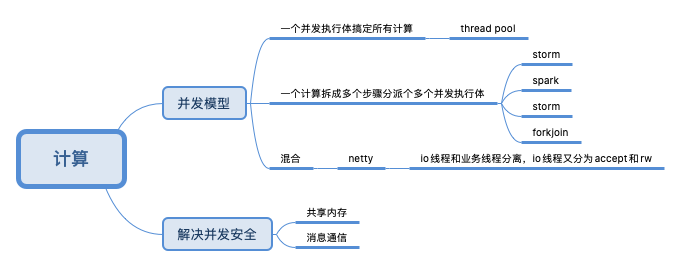
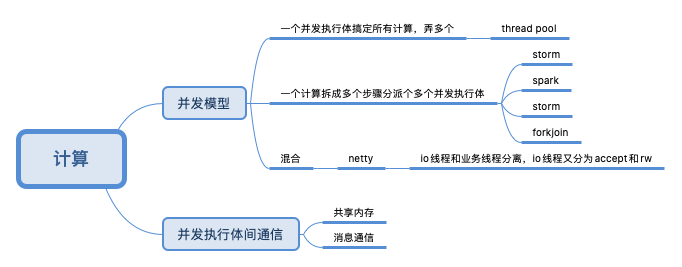
[fix]add

Changed region(s): [[0.2463, 0.779, 0.585, 0.9588], [0.6158, 0.0899, 0.8314, 0.1498]]

diff --git a/_posts/Technology/Storage/2019-11-20-mvcc.md b/_posts/Technology/Storage/2019-11-20-mvcc.md
@@ -1,0 +1,185 @@
+---
+
+layout: post
+title: MVCC
+category: 技术
+tags: Storage
+keywords: TIDB
+
+---
+
+## 前言
+
+
+截止到2019.11.19，对mvcc 的理解仍然有很多黑洞，可能需要阅读源码才能解开。我们需要知道的是，基于一个全局自增id，事务在start时申请id 作为自己的标识，修改（删除也可视为修改）一条记录时 不改变原有记录并新增 一条带上事务id的记录 即可成功的将修改操作转换为新增操作，提交时
+
+
+## mvcc 干啥的，同类的解决方案有哪些
+
+多个并发执行体操作一个数据 会引起数据冲突，需要进行并发控制，并发控制有两个思路
+
+1. 悲观机制，You can avoid them, by employing a pessimistic locking mechanism (e.g. Read/Write locks, Two-Phase Locking)
+2. 乐观机制，You can allow conflicts to occur, but you need to detect them using an optimistic locking mechanism (e.g. logical clock, MVCC)
+
+
+具体到数据库层面，追求绝对的并发安全会导致性能的下降。为了提高性能，可以降低并发控制”强度“，从读写的角度提出了一个隔离性的概念来描述并发安全的程度。 隔离性的要求不同，悲观 和乐观机制 可以调整内部细节 来达到不同的隔离性。
+
+1. 悲观锁，以mysql innodb 为例[彻底理解事务的4个隔离级别](https://www.cnblogs.com/jycboy/p/transaction.html)
+
+    ||读|写|
+    |---|---|---|
+    |Read uncommitted|事务在读数据的时候并未对数据加锁|事务在修改数据的时候只对数据增加`行级共享锁`|
+    |Read committed|事务对当前被读取的数据加 `行级共享锁`（当读到时才加锁），<br>一旦读完该行，立即释放该行级共享锁|事务在更新某数据的瞬间（就是发生更新的瞬间），<br>必须先对其加 `行级排他锁`，直到事务结束才释放|
+    |Repeatable read|事务在读取某数据的瞬间（就是开始读取的瞬间），必须先对其加 `行级共享锁`，直到事务结束才释放|事务在更新某数据的瞬间（就是发生更新的瞬间），必须先对其加 `行级排他锁`，直到事务结束才释放|
+    |Serializable|事务在读取数据时，必须先对其加 `表级共享锁` ，直到事务结束才释放|事务在更新数据时，必须先对其加 `表级排他锁` ，直到事务结束才释放|
+
+    为了实现隔离性的效果，不仅用了锁， 加锁的时间、粒度和性质（共享or排他）也很讲究。
+
+2. 乐观锁，MVCC 只是一个思想，并不是某个特定的实现。做到了读与读不冲突，读与写不冲突，但**写写还需要锁去控制冲突**。
+
+多事务 对同一个数据记录 同时读写的准确性，`<read,read>``<write,write>` 一般都没疑问，主要说的是`<read,write>`，具体的说就是`<read,udpate>``<read,delete>`，再具体的说，是write 一方的update/delete 操作read 一方能不能看到、何时看到。
+
+snapshot isolation [事务隔离级别SI到RC以及优化](http://www.zenlife.tk/si-rc.md)RR和SI是一个差不多强度的隔离级别，RR有幻读问题，SI没有；而SI有写偏问题，RR没有。它们都解决了读未提交，不可重复读，然后都有对方处理不了的异常，所以算是差不多强度。只不过当年定义隔离级别的ANSI标准的时候，大家思维还局限在基于锁的实现，所以标准定义不是很完美，定义了RU，RC，RR，Serializability，后来基于MVCC的实现流行之后，才有了SI。SI的实现，需要拿一次startTS和一次commitTS
+
+## 各家实现mvcc的方式不一致
+
+各家方案的共同点
+
+1. 每一个record 有一个 唯一标识primary key 
+2. 同一个record 存在多个版本，一个事务一个版本，多个版本的数据 可能是一个数据形态（postgresql），也可能是不同形态（mysql，老版本以undo log 形式存在）
+3. 对于不同隔离级别，mvcc 处理机制不同。
+4. mvcc 的工作基于 额外的数据结构 及 作用于之上的策略。
+
+[PostgreSQL、Oracle/MySQL和SQL Server的MVCC实现原理方式](https://www.jdon.com/repository/database-mvcc.html)
+
+## postgresql
+
+While Oracle and MySQL use the undo log to capture uncommitted changes so that rows can be reconstructed to their previously committed version, PostgreSQL stores all row versions in the table data structure.
+
+PostgreSQL 中的 MVCC 实现原理可简单概括如下（真的可以不用锁实现三种隔离性）
+
+1. 数据文件中存放同一逻辑行的多个行版本（称为 Tuple ）
+2. 每个行版本的头部记录创建以及删除该行版本的事务的 ID （分别称为 xmin 和 xmax ）
+3. 每个事务的状态（运行中，中止或提交）记录在 pg_clog 文件中，所以能根据事务id 查询事务是否已提交
+4. 根据上面的数据并运用一定的规则每个事务只会看到一个特定的行版本
+
+    1. 未提交读和提交读实际上都被实现为提交读
+    2. Read committed, 只读取已经提交事务的结果 [SQL优化（六） MVCC PostgreSQL实现事务和多版本并发控制的精华](http://www.jasongj.com/sql/mvcc/)
+    3. Repeatable read, 只读取xmin小于当前事务ID且已提交的事务的Tuple。postgresql RR隔离级别不允许幻读
+
+
+[How does MVCC (Multi-Version Concurrency Control) work](https://vladmihalcea.com/how-does-mvcc-multi-version-concurrency-control-work/)
+
+Transaction Id is a 32-bit integer, when connection start a new transaction, and we can see their transaction ids by calling the txid_current() PostgreSQL function.
+
+一个update a record 为例，在Read committed 时
+
+![](/public/upload/storage/postgresql_mvcc.png)
+
+1. Both Alice and Bob start a new transaction, and we can see their transaction ids by calling the txid_current() PostgreSQL function
+2. When Bob updates a post record, we can see two operations happening: a DELETE and an INSERT.
+The previous row version is marked as deleted by setting the t_max  column value to Bob’s transaction id(用xmax>0来标识该`<row，version>`元组被删除), and a new row version is created which has the t_min column value set to Bob’s transaction id
+3. Under default Read Committed isolation level, until Bob manages to commit his transaction, Alice can still see the previous record version. 
+4. After Bob has committed, Alice can now see the new row version that was updated by Bob
+
+|ACID|实现技术|
+|---|---|
+|原子性（Atomicity）|MVCC|
+|一致性（Consistency）|约束（主键、外键等）|
+|隔离性|MVCC|
+|持久性|WAL|
+
+对于插入操作，PostgreSQL会将当前事务ID存于xmin中。对于删除操作，其事务ID会存于xmax中。对于更新操作，PostgreSQL会将当前事务ID存于旧数据的xmax中，并存于新数据的xin中。换句话说，事务对增、删和改所操作的数据上都留有其事务ID，可以很方便的提交该批操作或者完全撤销操作，从而实现了事务的原子性。
+
+MVCC 的实现让我想起了 基于区块链的比特币，区块链的比特币从来没有一个余额存在，余额是根据历史的交易记录累计算出来的。PostgreSQL 的数据会有大量的Tuple 存在（当然会有一个gc 机制去清理Tuple），不同的事务 按规则读取自己可见的Tuple。
+
+## mysql
+
+[MVCC机制](https://my.oschina.net/u/3942910/blog/1928981)
+
+InnoDB为每行记录都实现了三个隐藏字段：6字节的事务ID（DB_TRX_ID ）；7字节的回滚指针（DB_ROLL_PTR）；隐藏的ID。
+
+[InnoDB MVCC RR隔离级别下的数据可见性总结](https://www.cnblogs.com/itZhy/p/8831947.html)
+
+![](/public/upload/storage/innodb_mvcc.png)
+
+innodb 中注意的一个点：事务ID并非在事务begin时就分配，而是在事务首次执行非快照读操作（SELECT ... FOR UPDATE/IN SHARE MODE、UPDATE、DELETE）时分配。
+
+## tidb
+
+tidb mvcc 机制一个难点是 其mvcc 既实现了多版本（解决多个事务同时读写一个key的问题），也实现了分布式事务（一个是事务中涉及多个key，每个key在不同的region/机器上，所以要保证多个key同时修改成功或失败）。
+
+
+
+|ACID|实现技术|
+|---|---|
+|原子性|两阶段提交时，通过 `primary key` 保证原子性。 `primary key` commit 成功与否决定事务成功与否|
+|一致性||
+|隔离性|通过MVCC，保证隔离级别为  Repeatable Read（也有一说是SI）|
+|持久性|tikv 保证持久化，多副本|
+
+
+### 分布式事务
+
+[TiKV 事务模型概览，Google Spanner 开源实现](https://pingcap.com/blog-cn/tidb-transaction-model/)其实本质上来说，在一个分布式系统中实现跨节点事务，**只有两阶段提交一种办法**（3PC 本质上也是 2PC 的一个优化），一般都会有一个中央节点作为事务管理器。TiDB 的事务模型参考了 Percolator 论文，Percolator仅仅依靠**客户端侧**的协议和一个全局的授时服务器TSO就实现了跨机器的多行事务。Percolator 的模型通过对于锁的优化，去掉了单点的事务管理器的概念，将整个事务模型中的单点局限于授时服务器上。
+
+### 对分布式事务的猜测
+
+![](/public/upload/storage/precolator.png)
+
+假设分布式kv 不支持ts，想原子修改k1和k2，直接修改
+
+1. set k1 成功
+2. set k2 失败
+3. 此时应该回滚，set k1 到原来的值，但这个时候 kv client 挂了呢，k1,k2就永远不一致了
+
+**一次提交只能对原始数据修改，中途宕机没办法callbak**，所以一个直观的想法就是， 每次update k1 ，k1 原来的值还在，另外创建一个新k1 row，于是key 便有了版本的概念。为防止版本号冲突，版本使用全局唯一id/时间戳来表示。key 有了多个版本，如何认定哪个版本有效呢？将存储分为两份 default store 和 commit store，在commit store 里对 k1 的version 进行确认。**于是数据有两个版本，有两次提交**。重新走下流程：
+
+
+1. 假设k1已有版本是ts1，add k1_ts2
+2. 假设k2已有版本是ts1，add k2_ts2 ，但add 失败
+3. 此时应该回滚， 因为没有 对k1_ts2 进行确认，所以k1_ts2 不是有效数据，所谓的callback 什么都不做即可。
+4. 假设k2已有版本是ts1，add k2_ts2 成功， 则commit store中 add `<k1_ts3,ts2>` 和 `<k2_ts3,ts2>`进行确认
+
+此处有一个问题，如何判断事务完成（成功失败都叫完成）？default store 存储了暂存的或有效的key，commit key 只是标记default store中哪些key 有效，却无法标记事务是否提交。 对于一个事务的读操作来说，假设新的事务只读取k2，**它如何知道k2 在不在一个事务里**，只有知道另一个事务是否commit，自己才可以根据隔离性要求 决定 read commit 还是read uncommitted。
+
+此外，两个写写 事务 也还是需要加锁 才可以防止写冲突（mvcc 解决写冲突也是靠锁的）
+
+所以，事务开启之前，要先尝试 对k1和k2 加锁，当然在kv store上只能是逻辑锁，除default store 和 commit store之外再加一个lock store。事务关闭后，移除k1和k2锁。 lock  可以防止写写冲突，恰好因为事务开启和关闭会create和remove 逻辑lock，**lock 存在与否 顺带也表示了事务处于commting 状态**。 读操作 可以根据 是否check 这个lock 来支持隔离性强度。
+
+加锁方式优化；[TiDB 新特性漫谈：悲观事务](https://pingcap.com/blog-cn/pessimistic-transaction-the-new-features-of-tidb/)标准的 Percolator 模型采用的是乐观事务模型，在提交之前，会收集所有参与修改的行（key-value pairs），从里面随机选一行，作为这个事务的 Primary row，剩下的行自动作为 secondary rows，这里注意，primary 是随机的，具体是哪行完全不重要，primary 的唯一意义就是负责标记这个事务的完成状态（secondary rows 的commit 和 remove lock 可以异步执行，这样事务可以尽早提前结束）。
+
+
+[Google Percolator 的事务模型](https://github.com/ngaut/builddatabase/blob/master/percolator/README.md)一系列文档只是阐述了 how，但没说为什么可以，留待以后研究吧。
+
+整体上思索几个问题
+
+1. 如何实现原子性
+
+    1. RocksDB’s atomic write batch and TiKV’s transaction scheduler make it atomic to read and write a single user key
+    2. different CFs in the same RocksDB instance uses a common WAL, providing the ability to write to different CFs atomically.
+    3. Two-phase commit (2PC) protocol.  commit primary key + remove primary lock  成功即认为事务提交成功，否则即事务提交失败。但commit primary key + remove primary lock 两条指令如何原子写入还有待研究。
+2. 如何实现一致性
+3. 如何实现隔离性
+4. 如何实现持久性
+
+### MVCC
+
+MVCC层暴露给上层的接口行为定义：
+
+    MVCCGet(key, version), 返回某 key 小于等于 version 的最大版本的值
+    MVCCScan(startKey, endKey, limit, version), 返回 [startKey, endKey) 区间内的 key 小于等于 version 的最大版本的键和值，上限 limit 个
+    MVCCPut(key, value, version) 插入某个键值对，如果 version 已经存在，则覆盖它。上层事务系统有责任维护自增version来避免read-modify-write
+    MVCCDelete(key, version) 删除某个特定版本的键值对, 这个需要与上层的事务删除接口区分，只有 GC 模块可以调用这个接口
+
+
+## 编程语言中的并发安全控制
+
+[从CPU Cache出发彻底弄懂volatile/synchronized/cas机制](https://juejin.im/post/5c6b99e66fb9a049d51a1094)
+
+cpu 硬件因为多级缓存的缘故，一般的cpu 指令操作的是local cache，对于同一个数据，因为local cache 存在天然的有了多 verison。
+
+各CPU都会通过总线嗅探来监视其他CPU，一旦某个CPU对自己Cache中缓存的共享变量做了修改（能做修改的前提是共享变量所在的缓存行的状态不是无效的），那么就会导致其他缓存了该共享变量的CPU将该变量所在的Cache Line置为无效状态，在下次CPU访问无效状态的缓存行时会首先要求对共享变量做了修改的CPU将修改从Cache写回主存，然后自己再从主存中将最新的共享变量读到自己的缓存行中。
+
+缓存一致性协议通过缓存锁定来保证CPU修改缓存行中的共享变量并通知其他CPU将对应缓存行置为无效这一操作的原子性，即当某个CPU修改位于自己缓存中的共享变量时会禁止其他也缓存了该共享变量的CPU访问自己缓存中的对应缓存行，并在缓存锁定结束前通知这些CPU将对应缓存行置为无效状态。在缓存锁定出现之前，是通过总线锁定来实现CPU之间的同步的，即CPU在回写主存时会锁定总线不让其他CPU访问主存，但是这种机制开销较大
+

diff --git a/_posts/Technology/Storage/2019-11-19-learn_storage.md b/_posts/Technology/Storage/2019-11-19-learn_storage.md
@@ -8,10 +8,31 @@ keywords: TIDB
 
 ---
 
-## 前言（未完成）
+## 前言
 
 ![](/public/upload/storage/storage.png)
 
-当我一开始学习mysql 的实现，我跟着mysql 脉络去学习一个db 如何实现，学习tidb 时也是。然后再回头看， 发现两者很多问题是类似的，知识在这个时候开始分层了。再去看mysql 的博客，你会发现内容是混杂的，一方面是 实现一个db的通用思想、机制， 一方面是msyql的实现细节。
+当我一开始学习mysql 的实现，我跟着mysql 脉络去学习一个db 如何实现，学习tidb 时也是。然后再回头看， 发现两者很多问题是类似的，知识在这个时候开始分层了。再去看mysql 的博客，你会发现内容是混杂的，一方面是 实现一个db的通用思想、机制， 一方面是msyql的实现细节。当学习了多个数据库实现之后，通用思想、机制提炼出来， mysql/tidb 专属细节整理一下，上帝的归上帝、凯撒的归凯撒。
 
 ![](/public/upload/storage/learn_storage.png)
+
+## 存储大势的发展：ACID’s Consistency vs. CAP’s Consistency
+
+一开始数据库都是单机的，实现ACID 的特性相对简单，然后数据量开始变大，在分布式场景下可用性盖过了一致性（所谓的CAP，大部分最终选择了牺牲了部分一致性），此时一致性由上游根据业务需要来取舍。 但是ACID 的需求只是被转移却从未消失过，Avoiding lost updates, dirty reads, stale reads and enforcing app-specific integrity constraints are critical concerns for app developers，Solving these concerns directly **at the database layer** using the consistency provided by ACID transactions is a much simpler approach.
+
+[A Primer on ACID Transactions: The Basics Every Cloud App Developer Must Know](https://blog.yugabyte.com/a-primer-on-acid-transactions)
+
+Consistency in CAP is a **more fundamental** concept — it refers to the guarantee that all members of a distributed system have a shared understanding of the value of a single data element from a read standpoint. 
+
+On the other hand, ACID’s consistency refers to data integrity guarantees that ensure the transition of the entire database from one valid state to another. Such a transition involves strict enforcement of integrity constraints such as data type adherence, null checks, relationships and more. Given that a single ACID transaction can touch multiple data elements where as CAP’s consistency refers to a single data element, ACID transactions are a stronger guarantee than CAP’s consistency.
+
+###  What’s Needed For Implementing ACID?
+
+1. Provisional Updates (Atomicity). Transactions involve multiple operations across multiple rows.  needs a mechanism to track the start, progress and end of every transaction along with the ability to make provisional updates across multiple nodes in some temporary space. Conflict detection, rollbacks, commits and space cleanups are also needed. Using Two-phase commit (2PC) protocol or one of its variations is the most common way to achieve atomicity. [Achieving Atomicity](https://blog.yugabyte.com/6-signs-you-might-be-misunderstanding-acid-transactions-in-distributed-databases/)
+2. Strongly Consistent Core (Consistency)  单机时不成问题，分布式场景下，因为副本问题，The transaction manager will rely on the correctness of a single operation on a single row to enforce the broader ACID-level consistency of multiple operations over multiple rows.  [Achieving Consistency](https://blog.yugabyte.com/6-signs-you-might-be-misunderstanding-acid-transactions-in-distributed-databases/)
+3. Transaction Ordering (Isolation), For a database to support the strictest serializable isolation level, a mechanism such as globally ordered timestamps is needed to sequentially arrange all the transactions. 必须为事务界定一个顺序 [Achieving Isolation](https://blog.yugabyte.com/6-signs-you-might-be-misunderstanding-acid-transactions-in-distributed-databases/)
+4. Persistent Storage (Durability) [Achieving Durability](https://blog.yugabyte.com/6-signs-you-might-be-misunderstanding-acid-transactions-in-distributed-databases/)
+
+上述的各种机制 在mysql、postgresql、tidb 中都有体现，实现一个机制有多种策略，有些策略只能单机用，有些策略可以推广到分布式上。分布式可以有coordinator ，也可以消灭coordinator， 通过不断地 探察本质，逐步逼近实现一个分布式ACID 的原子能力是什么？ 
+
+

diff --git a/_posts/Technology/Java/2018-06-05-aqs3.md b/_posts/Technology/Java/2018-06-05-aqs3.md
@@ -34,7 +34,7 @@ any synchronizer can be used to implement nearly any other.可以用一个同步
 1. doing so often entails enough complexity, overhead, and inflexibility to be at best a second-rate engineering option. 比较复杂，有性能瓶颈，是一个二流的实现方案。
 2. it is conceptually unattractive. If none of these constructs are intrinsically（本质的） more primitive than the others。 developers should not be compelled to arbitrarily choose one of them as a basis for building others. 所有同步器 都属于同一个抽象层次，以一个为基础实现另一个不科学。
 
-因此，提出了一个AQS，提供了大部分同步器都会用到的基础特性， 比同步器more primitive
+因此，**提出了一个AQS，自己（而不是借助于os锁）实现了同步器都会用到的 排队、唤醒、”阻塞“队列等特性**
 
 ## 实现同步器要考虑的几个问题
 

diff --git a/_posts/Technology/Compute/2015-06-19-concurrency_models.md b/_posts/Technology/Compute/2015-06-19-concurrency_models.md
@@ -3,8 +3,8 @@
 layout: post
 title: 《Concurrency Models》笔记
 category: 技术
-tags: Java
-keywords: 多线程 JAVA
+tags: Compute
+keywords: 多线程 
 
 ---
 
